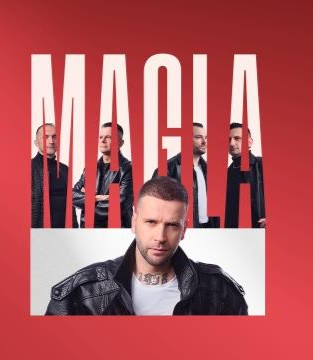
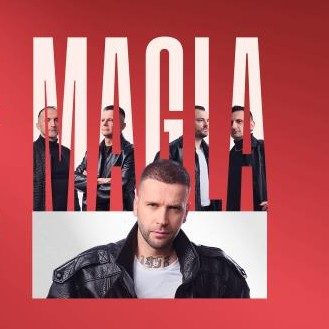
Smanjena redudantnost JS koda i popravljene slike

diff --git a/Index.html b/Index.html
@@ -29,41 +29,44 @@
     </div>
   </div>
 </nav>
-<div class="row">
-  <div class="col">
-    <h1 class="center anim1">Vodič kroz događaje</h1>
-    <h5 class="center anim1">Na ovoj stranici ćete pronaći sve informacije o događajima koji se organizuju u raznim delovima grada. Pogledajte listu i pridružite nam se!</h5>
+<main class="container-fluid">
+  <div class="row">
+    <div class="col">
+      <h1 class="center anim1">Vodič kroz događaje</h1>
+      <h5 class="center anim1">Na ovoj stranici ćete pronaći sve informacije o događajima koji se organizuju u raznim delovima grada. Pogledajte listu i pridružite nam se!</h5>
+    </div>
   </div>
-</div>
-<div class="row">
-  <div class="col-sm-12">
-    <h2 class="center anim1">Naši događaji</h2>
-  </div>
-  <div class="accordion anim1" id="btn1">
-    <div class="accordion-item" style="margin-left: 30px; margin-right: 30px;">
-      <h2 class="accordion-header" id="headingOne">
-        <button class="accordion-button btn btn-warning d-block text-center" type="button" data-bs-toggle="collapse" data-bs-target="#filter" aria-expanded="false" aria-controls="filter">
-          Filter
-        </button>
-      </h2>
-      <div id="filter" class="accordion-collapse collapse" data-bs-parent="#btn1">
-        <div class="accordion-body checks">
-          <label style="cursor: pointer;"><input type="radio" id="svi" name="filter" value="svi" style="cursor: pointer;" onchange="Filter()" checked>&nbsp;Svi događaji</label><br>
-          <label style="cursor: pointer;"><input type="radio" id="koncert" name="filter" value="koncert" style="cursor: pointer;" onchange="Filter()">&nbsp;Koncerti</label><br>
-          <label style="cursor: pointer;"><input type="radio" id="predavanje" name="filter" value="predavanje" style="cursor: pointer;" onchange="Filter()">&nbsp;Predavanja</label><br>
-          <label style="cursor: pointer;"><input type="radio" id="radionica" name="filter" value="radionica" style="cursor: pointer;" onchange="Filter()">&nbsp;Radionice</label><br>
-          <label for="tekst">Pretraga po nazivu</label><input type="text" id="tekst" placeholder="Unesite naziv događaja ili deo naziva..." style="margin-top: 10px;" oninput="FilterTeksta()">
+  <div class="row">
+    <div class="col-sm-12">
+      <h2 class="center anim1">Naši događaji</h2>
+    </div>
+    <div class="accordion anim1" id="btn1">
+      <div class="accordion-item">
+        <h2 class="accordion-header" id="headingOne">
+          <button class="accordion-button btn btn-warning d-block text-center" type="button" data-bs-toggle="collapse" data-bs-target="#filter" aria-expanded="false" aria-controls="filter">
+            Filter
+          </button>
+        </h2>
+        <div id="filter" class="accordion-collapse collapse show" data-bs-parent="#btn1">
+          <div class="accordion-body checks">
+            <label style="cursor: pointer;"><input type="radio" id="svi" name="filter" value="svi" style="cursor: pointer;" onchange="Filter()" checked>&nbsp;Svi događaji</label><br>
+            <label style="cursor: pointer;"><input type="radio" id="koncert" name="filter" value="koncert" style="cursor: pointer;" onchange="Filter()">&nbsp;Koncerti</label><br>
+            <label style="cursor: pointer;"><input type="radio" id="predavanje" name="filter" value="predavanje" style="cursor: pointer;" onchange="Filter()">&nbsp;Predavanja</label><br>
+            <label style="cursor: pointer;"><input type="radio" id="radionica" name="filter" value="radionica" style="cursor: pointer;" onchange="Filter()">&nbsp;Radionice</label><br>
+            <label for="tekst">Pretraga po nazivu</label><input type="text" id="tekst" placeholder="Unesite naziv događaja ili deo naziva..." oninput="FilterTeksta()">
+          </div>
         </div>
       </div>
     </div>
+    <div class="col-sm-12">
+      <h5 class="center anim1 filtertext">Svi događaji</h5>
+    </div>
+    <div class="row g-4" id="događaji">
+      <h5 id="nema" class="AnimCard2" style="text-align: center;">Broj događaja ide ovde...</h5>
+      <!-- Ovde idu kartice -->
+    </div>
   </div>
-  <div class="col-sm-12">
-    <h5 class="center anim1 filtertext">Izabrani filter će ovde biti prikazan</h5>
-  </div>
-  <div class="row g-4"style="margin-left: 10px; margin-right: 10px;" id="događaji">
-    <h5 id="nema" style="display: none; text-align: center;">Broj događaja ide ovde...</h5>
-    <!-- Ovde idu kartice -->
-  </div>
+</main>
 </body>
 <script defer src="js/script.js"></script>
 <script src="bootstrap_5.3.8/js/bootstrap.min.js"></script>

diff --git a/js/script.js b/js/script.js
@@ -6,7 +6,7 @@ nizObjekata[0] = {ID:1, Naziv:"Koncert Vlado Georgijev", Datum:"6.12.2026", Mest
 };
 nizObjekata[1] = {ID:2, Naziv:"Sofiologija u ruskoj religijskoj misli", Datum:"18.11.2026", Mesto:"Dom Omladine, Makedonska 22, Beograd",
     Kategorija: "Predavanje", Opis: "Predavanje vodi prof. dr Davor Džalto sa Univerzitetskog koledža u Stokholmu, u okviru ciklusa „Na krilima (pre)mudrosti – Sofije“.",
-    Putanja:"img/Sofiologija(edited).jpeg"
+    Putanja:"img/Sofiologija.jpeg"
 };
 nizObjekata[2] = {ID:3, Naziv:"IT Connect X SemRush Meetup", Datum:"19.11.2026", Mesto:"Haos Community Space, Kraljice Natalije 11, Beograd",
     Kategorija: "Radionica", Opis: "Program pokriva praktične teme iz oblasti AI agenata, kreiranja sadržaja, razvoja karijere i izgradnje zajednice u IT industriji.Predavanje je na engleskom jeziku.",
@@ -24,10 +24,10 @@ nizObjekata[5] = {ID:6, Naziv:"Radionica Slikanja:Toskana", Datum:"14.11.2026", 
     Kategorija: "Radionica", Opis: "Radionica slikanja namenjena odraslima i početnicima bez prethodnog slikarskog iskustva. Uključeno neograničeno piće, stručno vođenje radionice i sav neophodan materijal.",
     Putanja:"img/Toskana(edited).png"
 };
-let br=1;
-let pocetak = "<div class='col-sm-12 col-lg-4 Konc' id="+br+"><div class='container AnimCard2' style='text-align: center;'> <div class='card' style='width: 18em; margin: auto;'>";
 function PrikaziDogađaje(){
     let html="";
+    document.getElementById("nema").textContent="Broj prikazanih događaja: "+nizObjekata.length;
+    document.getElementById("nema").style.display="block";
     for(let i=0; i< nizObjekata.length; i++)
     {
         let dogadjaj=nizObjekata[i];
@@ -38,16 +38,10 @@ function PrikaziDogađaje(){
             kategorijaKlasa="Pred";
         else if(dogadjaj.Kategorija=="Radionica")
             kategorijaKlasa="Rad";
-        if(i >=1 && i <=3)
-        {
-            html+="<div class='col-sm-12 col-lg-4 "+kategorijaKlasa+"' id="+(i+1)+"><div class='container AnimCard2' style='text-align: center;'> <div class='card' style='width: 18em; margin: auto;'><img src='"+nizObjekata[i].Putanja+"' alt='"+nizObjekata[i].Naziv+"(slika)' style='height: 18em;'> <div class='card-body'><div class='card-title'>Događaj " + (i+1) + "</div> <h5 class='card-title'>" + dogadjaj.Naziv + "</h5> <p class='card-text'>Datum: " + dogadjaj.Datum + "</p> <p class='card-text'>Lokacija: " + dogadjaj.Mesto + "</p> <p class='card-text'>Kategorija: " + dogadjaj.Kategorija + "</p> <p class='card-text'>Opis: " + dogadjaj.Opis + "</p></div></div></div></div>";
-        }
-        else
-        {
-            html+="<div class='col-sm-12 col-lg-4 "+kategorijaKlasa+"' id="+(i+1)+"><div class='container AnimCard2' style='text-align: center;'> <div class='card' style='width: 18em; margin: auto;'><img src='"+nizObjekata[i].Putanja+"' alt='"+nizObjekata[i].Naziv+"(slika)'> <div class='card-body'><div class='card-title'>Događaj " + (i+1) + "</div> <h5 class='card-title'>" + dogadjaj.Naziv + "</h5> <p class='card-text'>Datum: " + dogadjaj.Datum + "</p> <p class='card-text'>Lokacija: " + dogadjaj.Mesto + "</p> <p class='card-text'>Kategorija: " + dogadjaj.Kategorija + "</p> <p class='card-text'>Opis: " + dogadjaj.Opis + "</p></div></div></div></div>";
-        }
+        html+="<div class='col-sm-12 col-lg-4 "+kategorijaKlasa+"' id="+dogadjaj.ID+"><div class='container AnimCard2' style='text-align: center;'> <div class='card' style='width: 18em; margin: auto;'><img src='"+dogadjaj.Putanja+"' alt='"+dogadjaj.naziv+"(slika)'> <div class='card-body'><div class='card-title'>Događaj " + dogadjaj.ID + "</div> <h5 class='card-title'>" + dogadjaj.Naziv + "</h5> <p class='card-text'>Datum: " + dogadjaj.Datum + "</p> <p class='card-text'>Lokacija: " + dogadjaj.Mesto + "</p> <p class='card-text'>Kategorija: " + dogadjaj.Kategorija + "</p> <p class='card-text'>Opis: " + dogadjaj.Opis + "</p></div></div></div></div>";
     }
-    document.getElementById("događaji").innerHTML ='<h5 id="nema" style="display: none; text-align: center;">Nema pronađenih događaja.</h5>' + html;
+    document.getElementById("događaji").innerHTML += html;
+    
 }
 function UkloniAnimacije()
 {
@@ -79,7 +73,6 @@ function Filter(){
             filterText.textContent = "Samo radionice";
             break;
     }
-    filterText.style.color="black";
     FilterTeksta();
 }
 function FilterTeksta() {

diff --git a/css/style.css b/css/style.css
@@ -1,6 +1,3 @@
-body{
-    overflow-x: hidden;
-}
 #strana{
     background-color: white;
 }
@@ -37,9 +34,6 @@ body{
     flex-direction: column;
     align-items: center;
 }
-.filtertext{
-    color: gray;
-}
 .anim1{
     animation-name: anim1;
     animation-duration: 2s;
@@ -58,9 +52,6 @@ body{
     }
 }
 @media screen and (max-width: 768px) {
-    body{
-        overflow-x: hidden;
-    }
     .vidljivost{
         display: block !important;
     }
@@ -72,14 +63,6 @@ body{
         animation-timing-function: ease-in-out;
         opacity:0;
         transform: translateY(-10px);
-    }
-}
-@media screen and (max-width: 320px) {
-    body{
-        overflow-x: hidden;
-    }
-    .row{
-        margin:auto !important;
     }
 }
 .AnimCard1{
